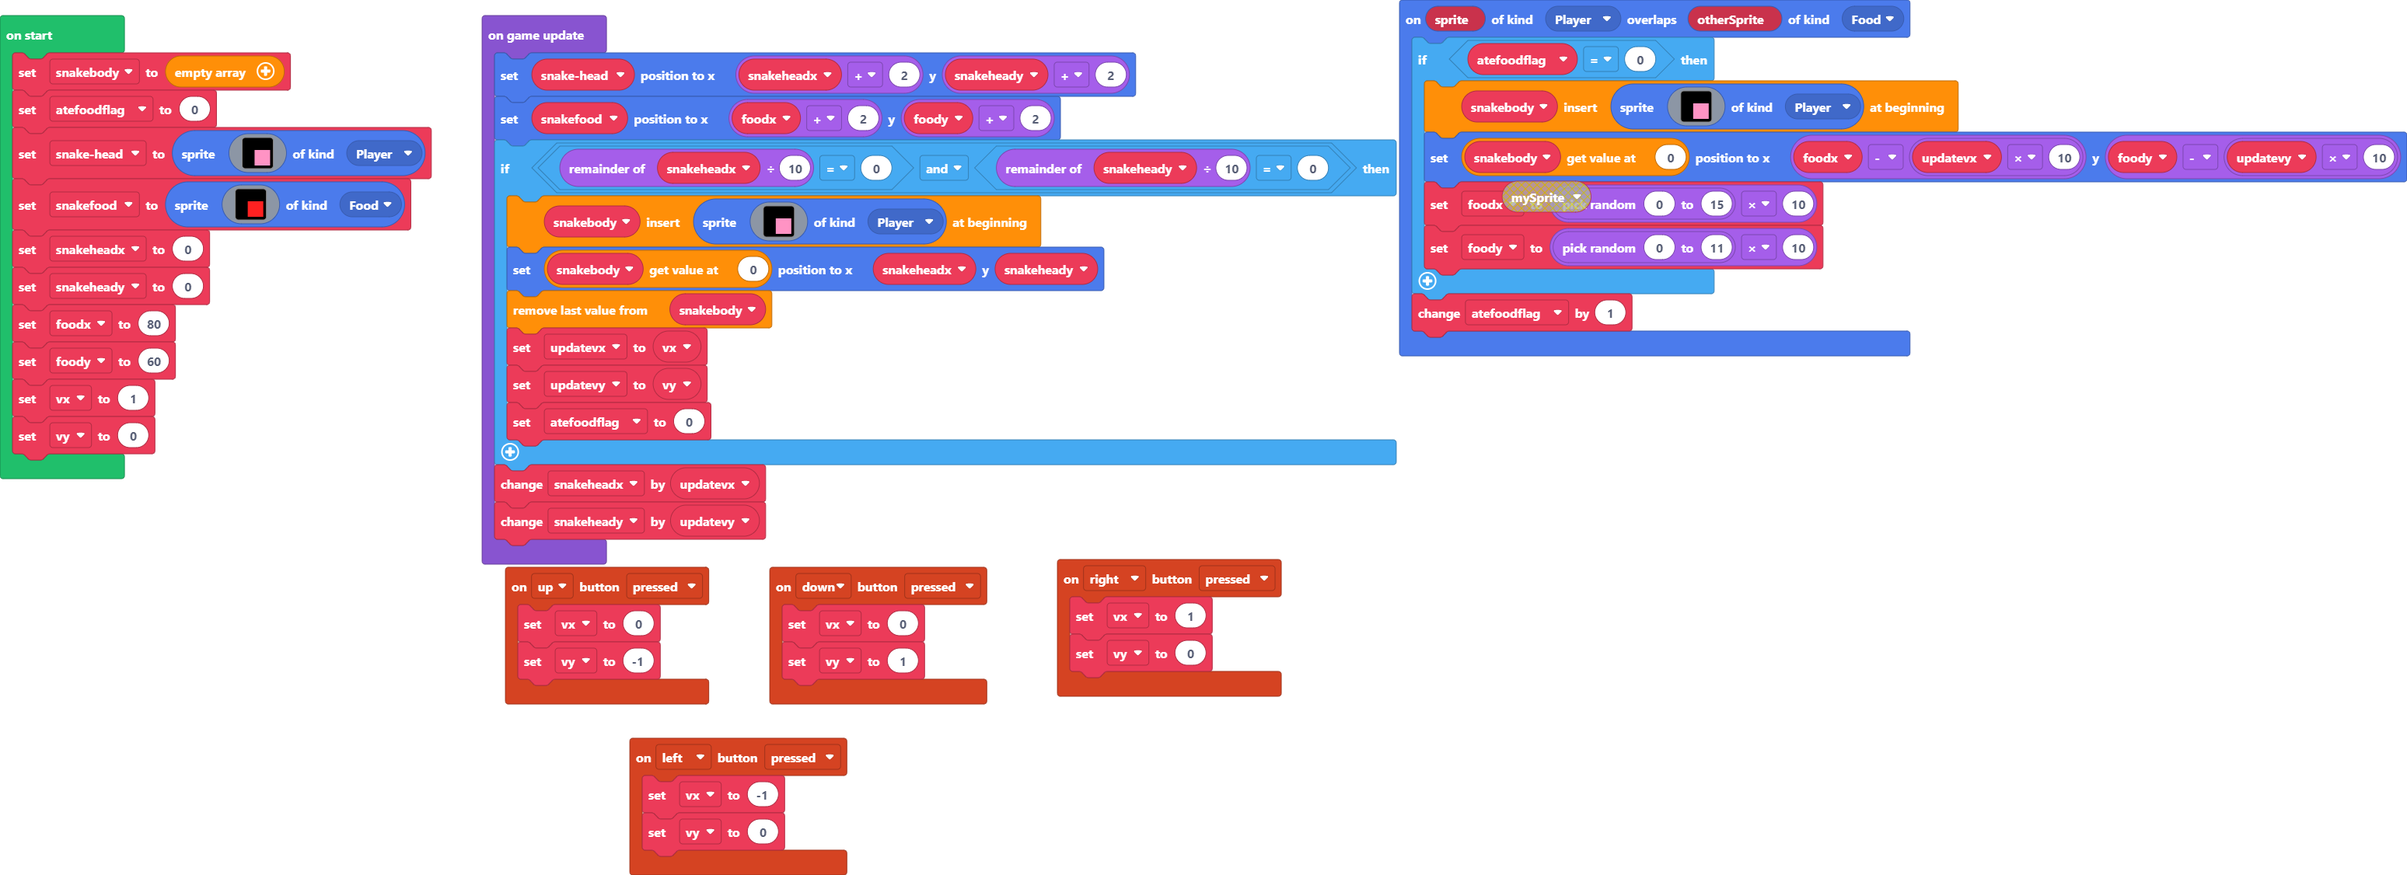
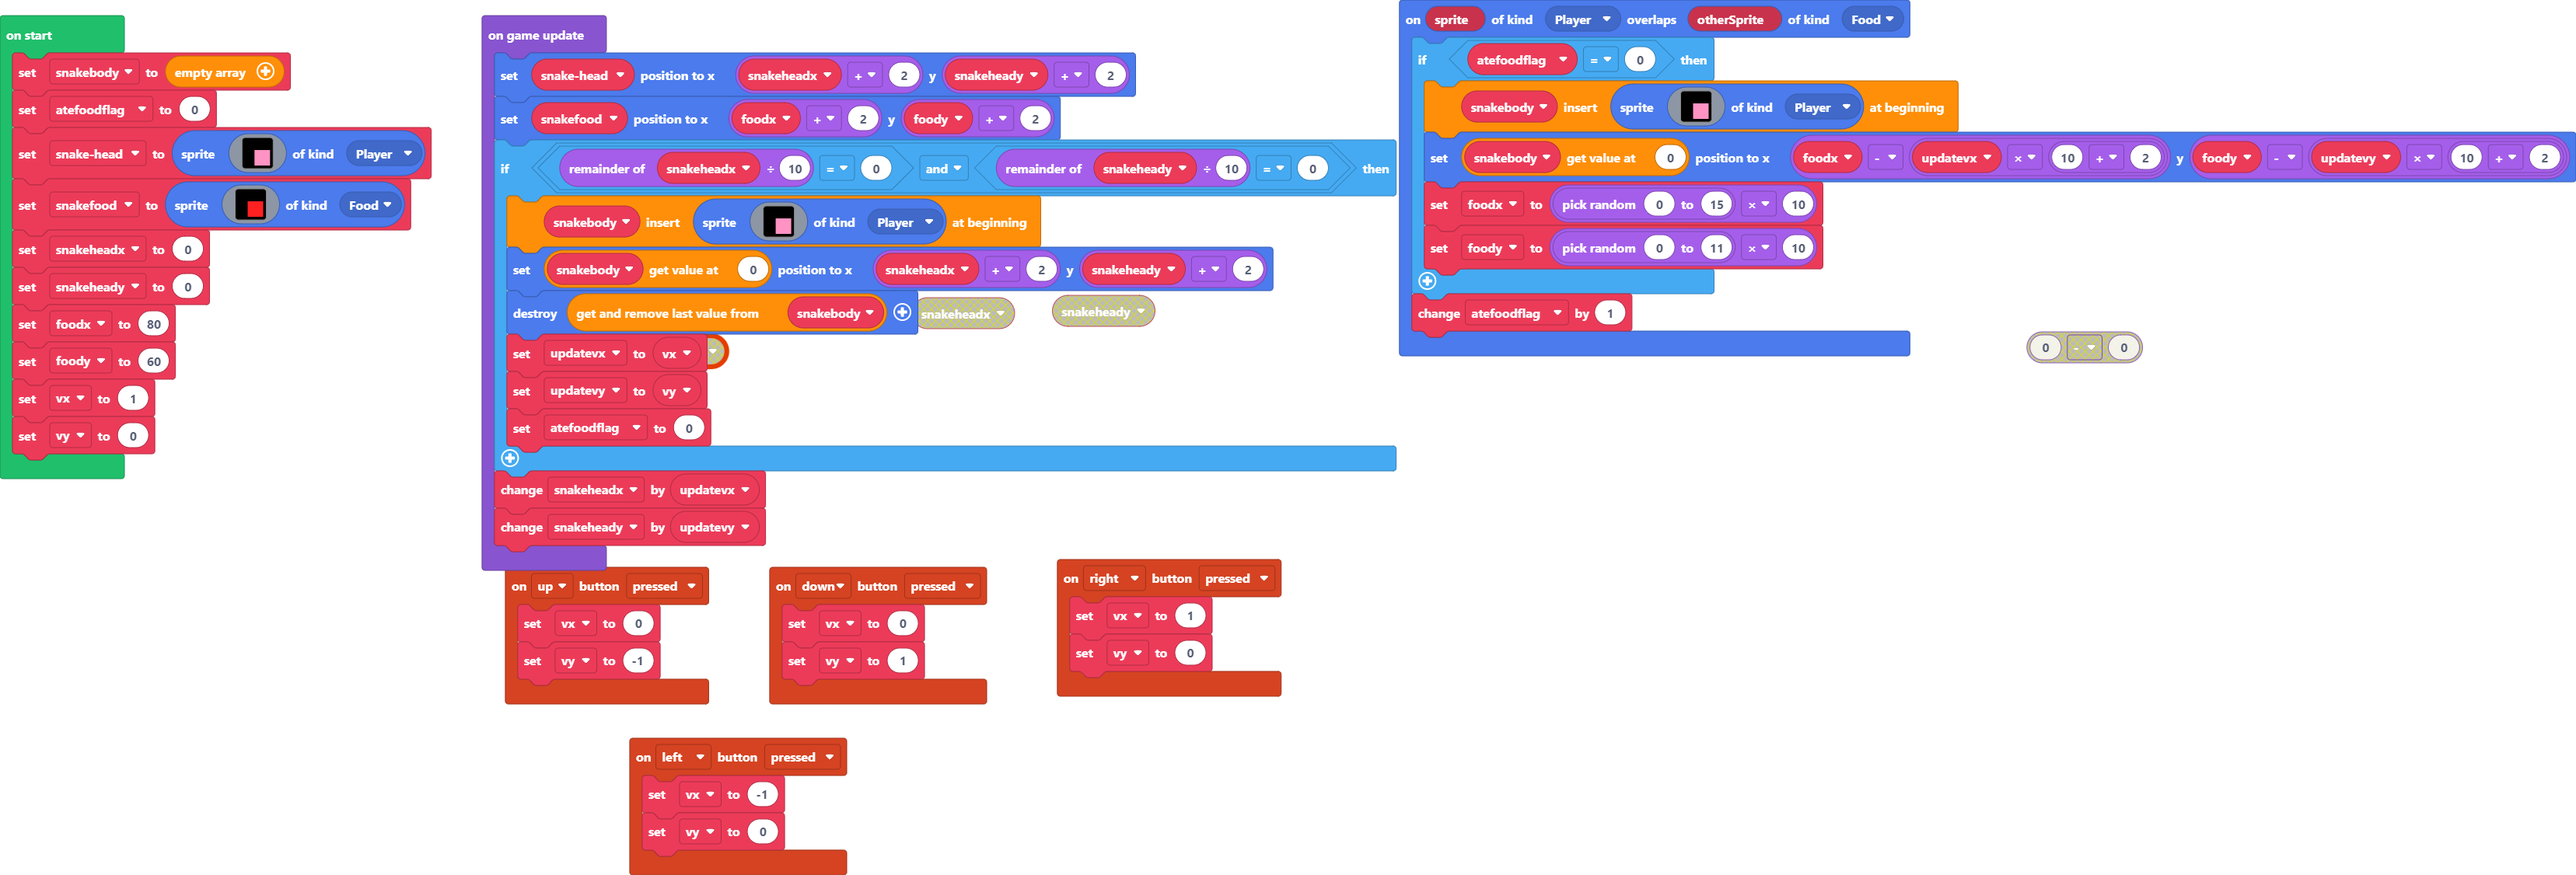
fix snake body

Changed region(s): [[0.0, 0.0, 1.0, 0.8082], [0.2171, 0.8393, 0.3721, 1.0], [0.7442, 0.373, 0.8372, 0.4352]]

diff --git a/main.ts b/main.ts
@@ -34,7 +34,7 @@ sprites.onOverlap(SpriteKind.Player, SpriteKind.Food, function (sprite, otherSpr
             . . . . . . 3 3 3 3 3 3 3 3 3 3 
             . . . . . . 3 3 3 3 3 3 3 3 3 3 
             `, SpriteKind.Player))
-        snakebody[0].setPosition(foodx - updatevx * 10, foody - updatevy * 10)
+        snakebody[0].setPosition(foodx - updatevx * (10 + 2), foody - updatevy * (10 + 2))
         foodx = randint(0, 15) * 10
         foody = randint(0, 11) * 10
     }
@@ -114,8 +114,8 @@ game.onUpdate(function () {
             . . . . . . 3 3 3 3 3 3 3 3 3 3 
             . . . . . . 3 3 3 3 3 3 3 3 3 3 
             `, SpriteKind.Player))
-        snakebody[0].setPosition(snakeheadx, snakeheady)
-        snakebody.pop()
+        snakebody[0].setPosition(snakeheadx + 2, snakeheady + 2)
+        snakebody.pop().destroy()
         updatevx = vx
         updatevy = vy
         atefoodflag = 0
